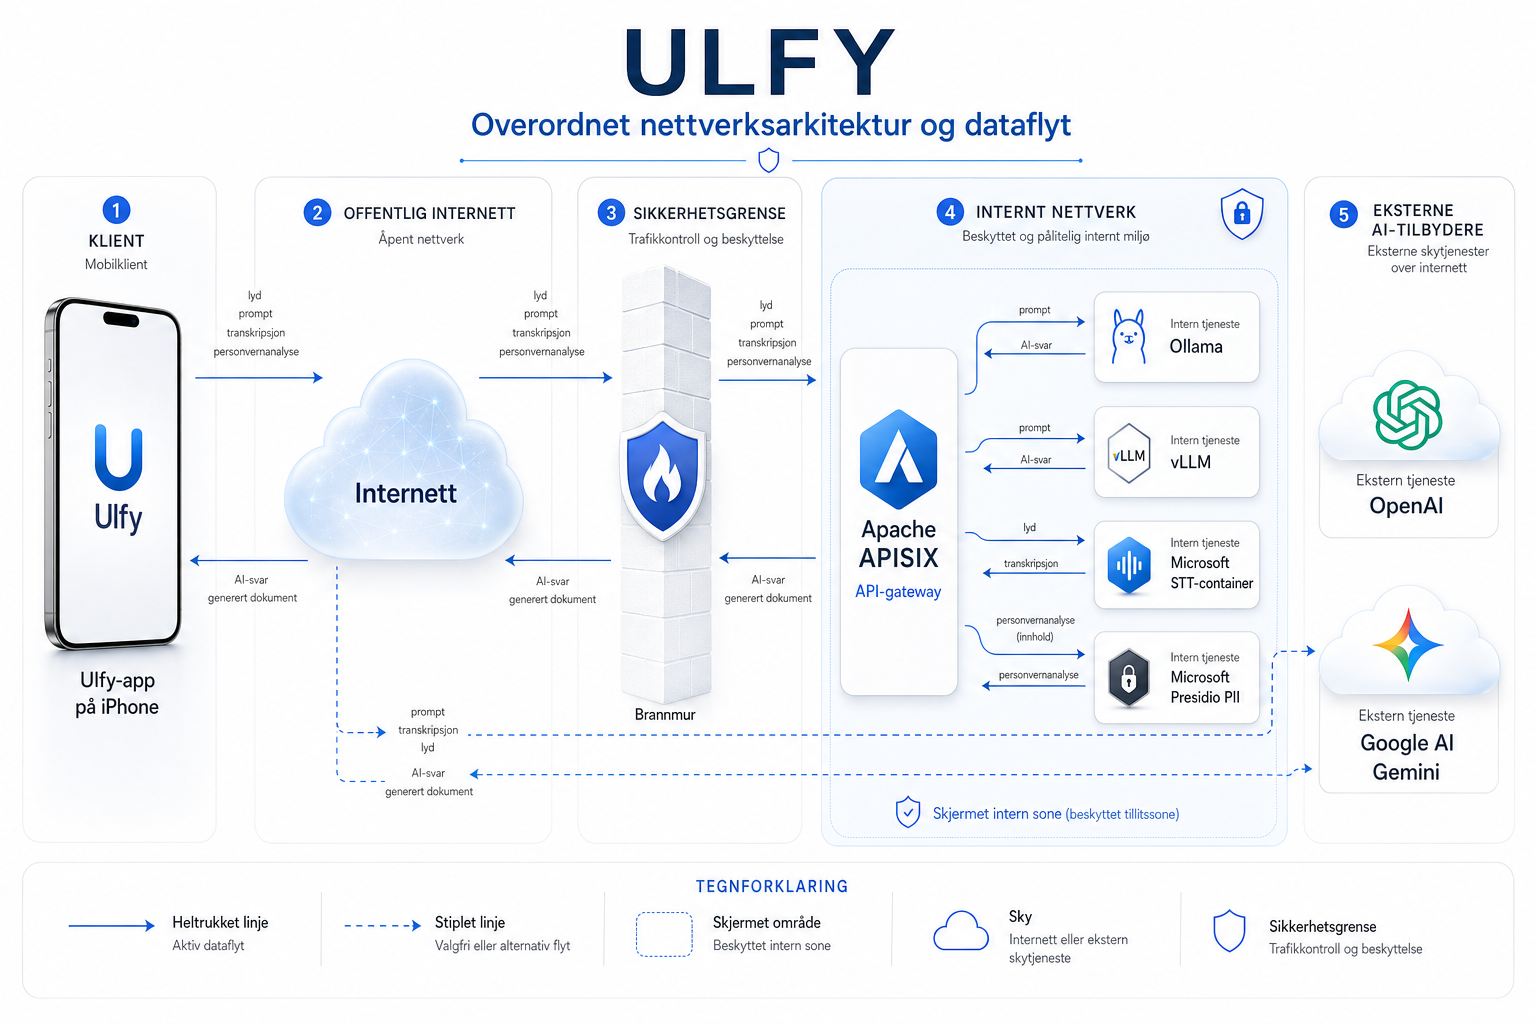
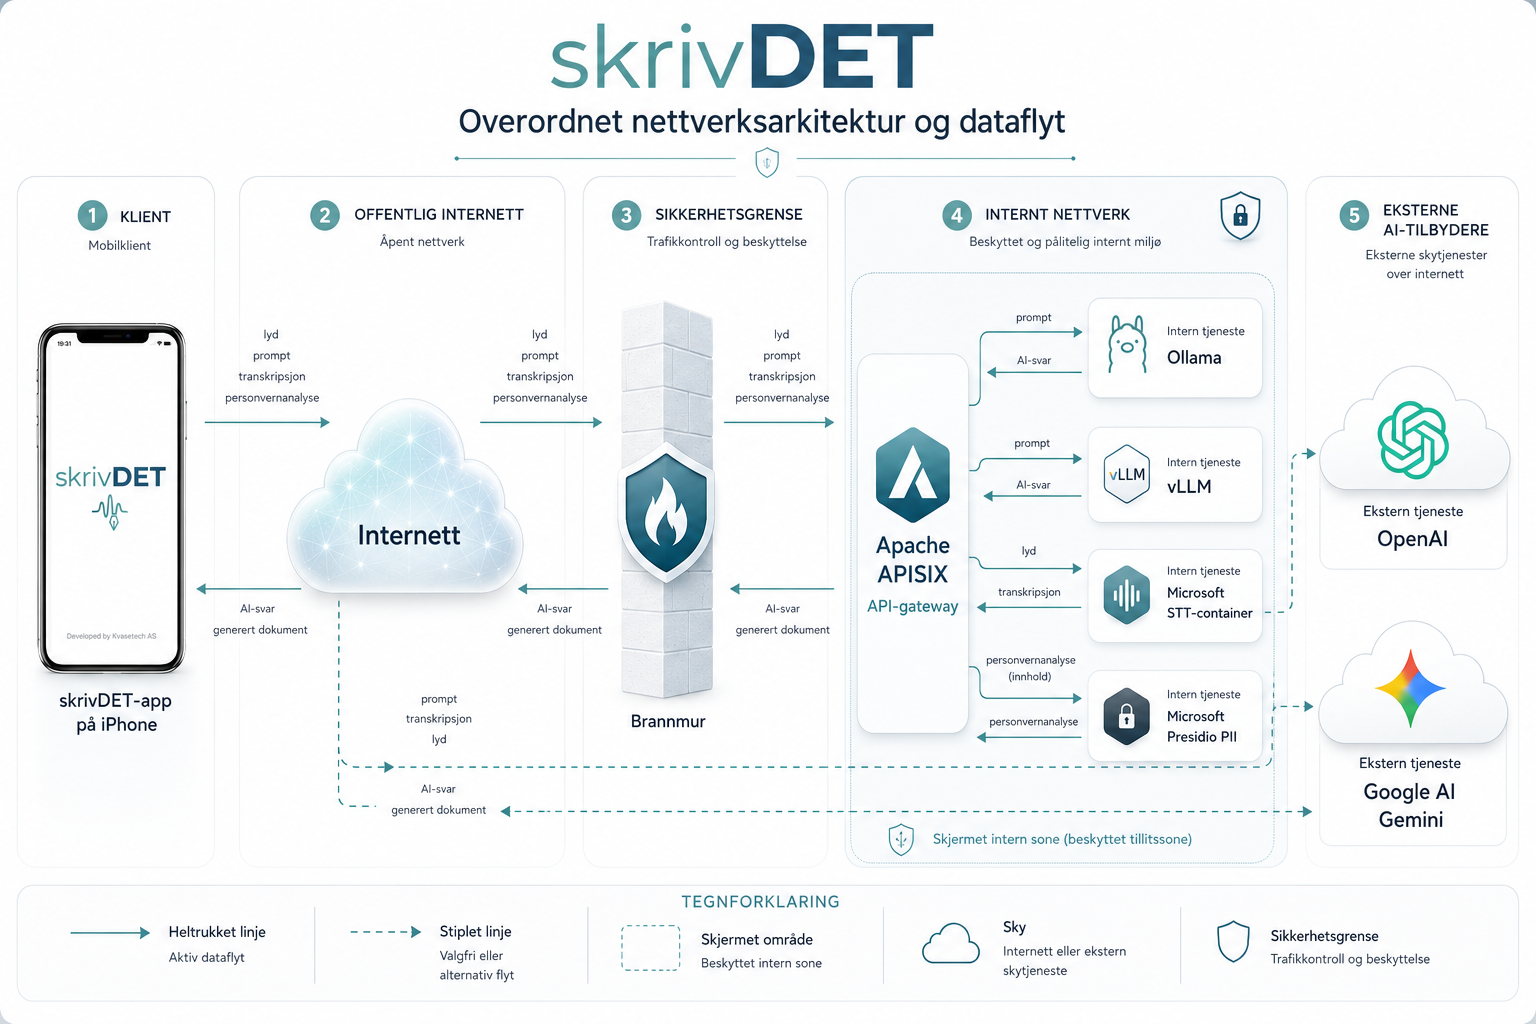
Refine architecture page and navigation

diff --git a/src/App.jsx b/src/App.jsx
@@ -442,6 +442,7 @@ function useSiteEffects() {
 function SiteHeader() {
   const [isOpen, setIsOpen] = useState(false);
   const location = useLocation();
+  const homeSectionHref = (hash) => (location.pathname === "/" ? hash : `/${hash}`);
 
   useEffect(() => {
     const closeMenu = () => setIsOpen(false);
@@ -452,7 +453,7 @@ function SiteHeader() {
   return (
     <header className="site-header">
       <div className="container header-inner">
-        <a className="brand" href="#top" aria-label={`${brandName} hjem`}>
+        <a className="brand" href={homeSectionHref("#top")} aria-label={`${brandName} hjem`}>
           <img className="brand-logo" src={brandLogoHorizontal} alt={brandName} />
         </a>
         <button
@@ -465,18 +466,18 @@ function SiteHeader() {
           Meny
         </button>
         <nav id="site-nav" className={`site-nav${isOpen ? " is-open" : ""}`} aria-label="Hovedmeny">
-          <a href="#om" onClick={() => setIsOpen(false)}>Om</a>
-          <a href="#hvordan" onClick={() => setIsOpen(false)}>Hvordan det fungerer</a>
-          <a href="#sikkerhet" onClick={() => setIsOpen(false)}>Sikkerhet</a>
-          <a href="#kontakt" onClick={() => setIsOpen(false)}>Kontakt</a>
+          <a href={homeSectionHref("#om")} onClick={() => setIsOpen(false)}>Om</a>
+          <a href={homeSectionHref("#hvordan")} onClick={() => setIsOpen(false)}>Hvordan det fungerer</a>
+          <a href={homeSectionHref("#sikkerhet")} onClick={() => setIsOpen(false)}>Sikkerhet</a>
+          <a href={homeSectionHref("#kontakt")} onClick={() => setIsOpen(false)}>Kontakt</a>
           <Link
             to="/system-architecture"
             className={location.pathname === "/system-architecture" ? "is-active" : undefined}
             onClick={() => setIsOpen(false)}
           >
-            Systemarkitektur
+            Arkitektur
           </Link>
-          <a href="#app-store-download" onClick={() => setIsOpen(false)}>
+          <a href={homeSectionHref("#app-store-download")} onClick={() => setIsOpen(false)}>
             Last ned
           </a>
         </nav>
@@ -490,21 +491,21 @@ function SiteFooter() {
     <footer className="site-footer" data-animate="fade">
       <div className="container footer-grid">
         <div>
-          <a className="brand footer-brand" href="#top">
+          <a className="brand footer-brand" href={location.pathname === "/" ? "#top" : "/#top"}>
             <img className="brand-logo brand-logo-footer" src={brandLogoHorizontal} alt={brandName} />
           </a>
           <p>© 2026 by Kvasetech AS</p>
         </div>
         <div>
           <h3>Retningslinjer</h3>
-          <Link to="/system-architecture">Systemarkitektur</Link>
+          <Link to="/system-architecture">Arkitektur</Link>
           <Link to="/privacy-policy">Personvernerklæring</Link>
           <Link to="/accessibility-statement">Tilgjengelighetserklæring</Link>
         </div>
         <div>
           <h3>Videre</h3>
-          <a href={`${import.meta.env.BASE_URL}#kontakt`}>Kontakt oss</a>
-          <Link to="/system-architecture">Se systemarkitektur</Link>
+          <a href={location.pathname === "/" ? "#kontakt" : "/#kontakt"}>Kontakt oss</a>
+          <Link to="/system-architecture">Se arkitektur</Link>
         </div>
       </div>
     </footer>
@@ -804,9 +805,6 @@ function PolicyPage({ title, children }) {
         <article className="page-card">
           <h1>{title}</h1>
           {children}
-          <Link className="back-link" to="/">
-            Tilbake til forsiden
-          </Link>
         </article>
       </main>
     </>
@@ -819,25 +817,16 @@ function ArchitecturePage() {
       <SiteHeader />
       <main className="page-shell architecture-shell">
         <article className="page-card architecture-card">
-          <img className="page-brandmark" src={brandLogoStacked} alt={brandName} />
-          <h1>Systemdesign og arkitektur</h1>
+          <h1>Arkitektur</h1>
           <p>
             Denne oversikten viser skrivDETs overordnede nettverksarkitektur og dataflyt mellom
             klient, internett, sikkerhetsgrense, interne tjenester og eksterne AI-tilbydere.
           </p>
-          <a
-            className="architecture-link"
-            href={asset("assets/system-architecture.png")}
-            target="_blank"
-            rel="noreferrer"
-          >
-            Åpne bildet i full størrelse
-          </a>
           <figure className="architecture-figure">
             <img
               className="architecture-image"
               src={asset("assets/system-architecture.png")}
-              alt="skrivDET systemdesign og arkitektur med nettverksarkitektur og dataflyt"
+              alt="skrivDET arkitektur med nettverksarkitektur og dataflyt"
             />
           </figure>
           <Link className="back-link" to="/">